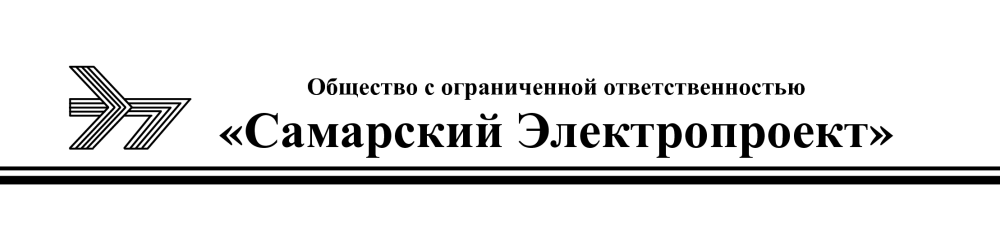
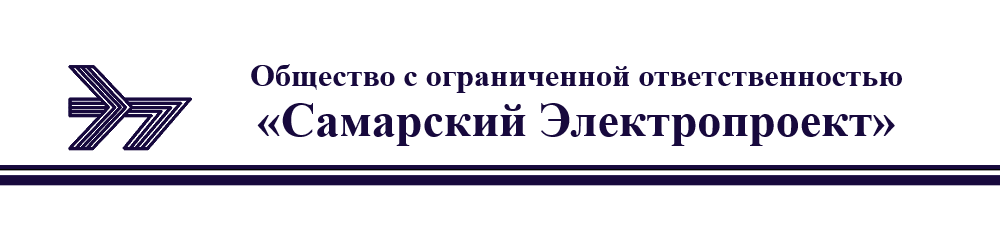
Add files via upload

Changed region(s): [[0.0, 0.252, 1.0, 0.756], [0.062, 0.252, 0.217, 0.616]]

diff --git a/index_files/style.css b/index_files/style.css
@@ -1,75 +1,76 @@
 .sea {
-	text-decoration: none;
-	font-size: 28px;
-	color: #091a42;
-	font-family: 'Times New Roman', Times, serif;
-	font-weight: bold;
+  text-decoration: none;
+  font-size: 28px;
+  color: #091a42;
+  font-family: 'Times New Roman', Times, serif;
+  font-weight: bold;
 }
 .fon-menu {
-	padding-right: 20px;
-	padding-left: 20px;
-	background-image: url(../img/ptichka250.png);
-	background-size:contain;
-	background-repeat: no-repeat;
-	background-clip: content-box;
-
- }
+  padding-right: 20px;
+  padding-left: 20px;
+  background-image: url(../img/ptichka250.png);
+  background-size: contain;
+  background-repeat: no-repeat;
+  background-clip: content-box;
+}
 .menu {
- 	text-decoration: none;
- 	font-size: 20px;
- 	color: #000000;
- 	font-family: 'Times New Roman', Times, serif;
- 	font-weight: normal;
- 	margin-left: 15px;
-    margin-right: 15px;
- }
-		.menu:hover {
-		background: #ffffff;
-		color: #000000;
-		text-decoration: underline;
-		}
-			.menu:visited {
-			color: #000000;
-			}
+  text-decoration: none;
+  font-size: 20px;
+  color: #000000;
+  font-family: 'Times New Roman', Times, serif;
+  font-weight: normal;
+  margin-left: 15px;
+  margin-right: 15px;
+}
+.menu:hover {
+  background: #ffffff;
+  color: #000000;
+  text-decoration: underline;
+}
+.menu:visited {
+  color: #000000;
+}
 .menu-position {
-	margin-top: 200px;
-    margin-left: 12%;
-    margin-right: auto;
- 	background-color: #ffffff;
- }
+  margin-top: 180px;
+  margin-left: 8%;
+  margin-right: 7%;
+  background-color: #ffffff;
+  border-style: double;
+  border-color: #17093d;
+  padding: 5px 5px 5px 20px;
+}
 .site-fon {
-	background-image: url(../img/project015.jpg);
- 	margin-top: 30px;
- 	margin-bottom: 30px;
- }
+  background-image: url(../img/project015.jpg);
+  margin-top: 30px;
+  margin-bottom: 30px;
+}
 .podval {
- 	height: 60px;
- 	color: #FFFFFF;
-	background-color: #000000;
- 	text-align: center;
- 	font-weight: normal;
- } 
+  height: 60px;
+  color: #ffffff;
+  background-color: #17093d;
+  text-align: center;
+  font-weight: normal;
+}
 .main-table {
- 	background-color: rgb(255, 255, 255);
-	 width: 900px;
-	 height: 1350px;
- 	box-shadow: 0 0 50px 1px;
- 	
- 	vertical-align: bottom;
- 	border-radius: 0px 0px 0 0;
- 	-moz-border-radius: 0px;
- 	
- }
- .down-line {
- 	width: 892px;
- 	color: #5876a7;
- }
- .down-line-cell {
- 	height: 18px;
- }
- .height-menu-cell {
- 	height: 250px;
- }
- .otstup-contact {
- 	margin-left: 30px;
- }
+  background-color: rgb(255, 255, 255);
+  width: 900px;
+  height: 1350px;
+  box-shadow: 0 0 50px 1px;
+
+  vertical-align: bottom;
+  border-radius: 0px 0px 0 0;
+  -moz-border-radius: 0px;
+}
+.down-line {
+  width: 892px;
+  color: #5876a7;
+}
+.down-line-cell {
+  height: 18px;
+}
+.height-menu-cell {
+  height: 250px;
+}
+.otstup-contact {
+  margin-left: 30px;
+}
